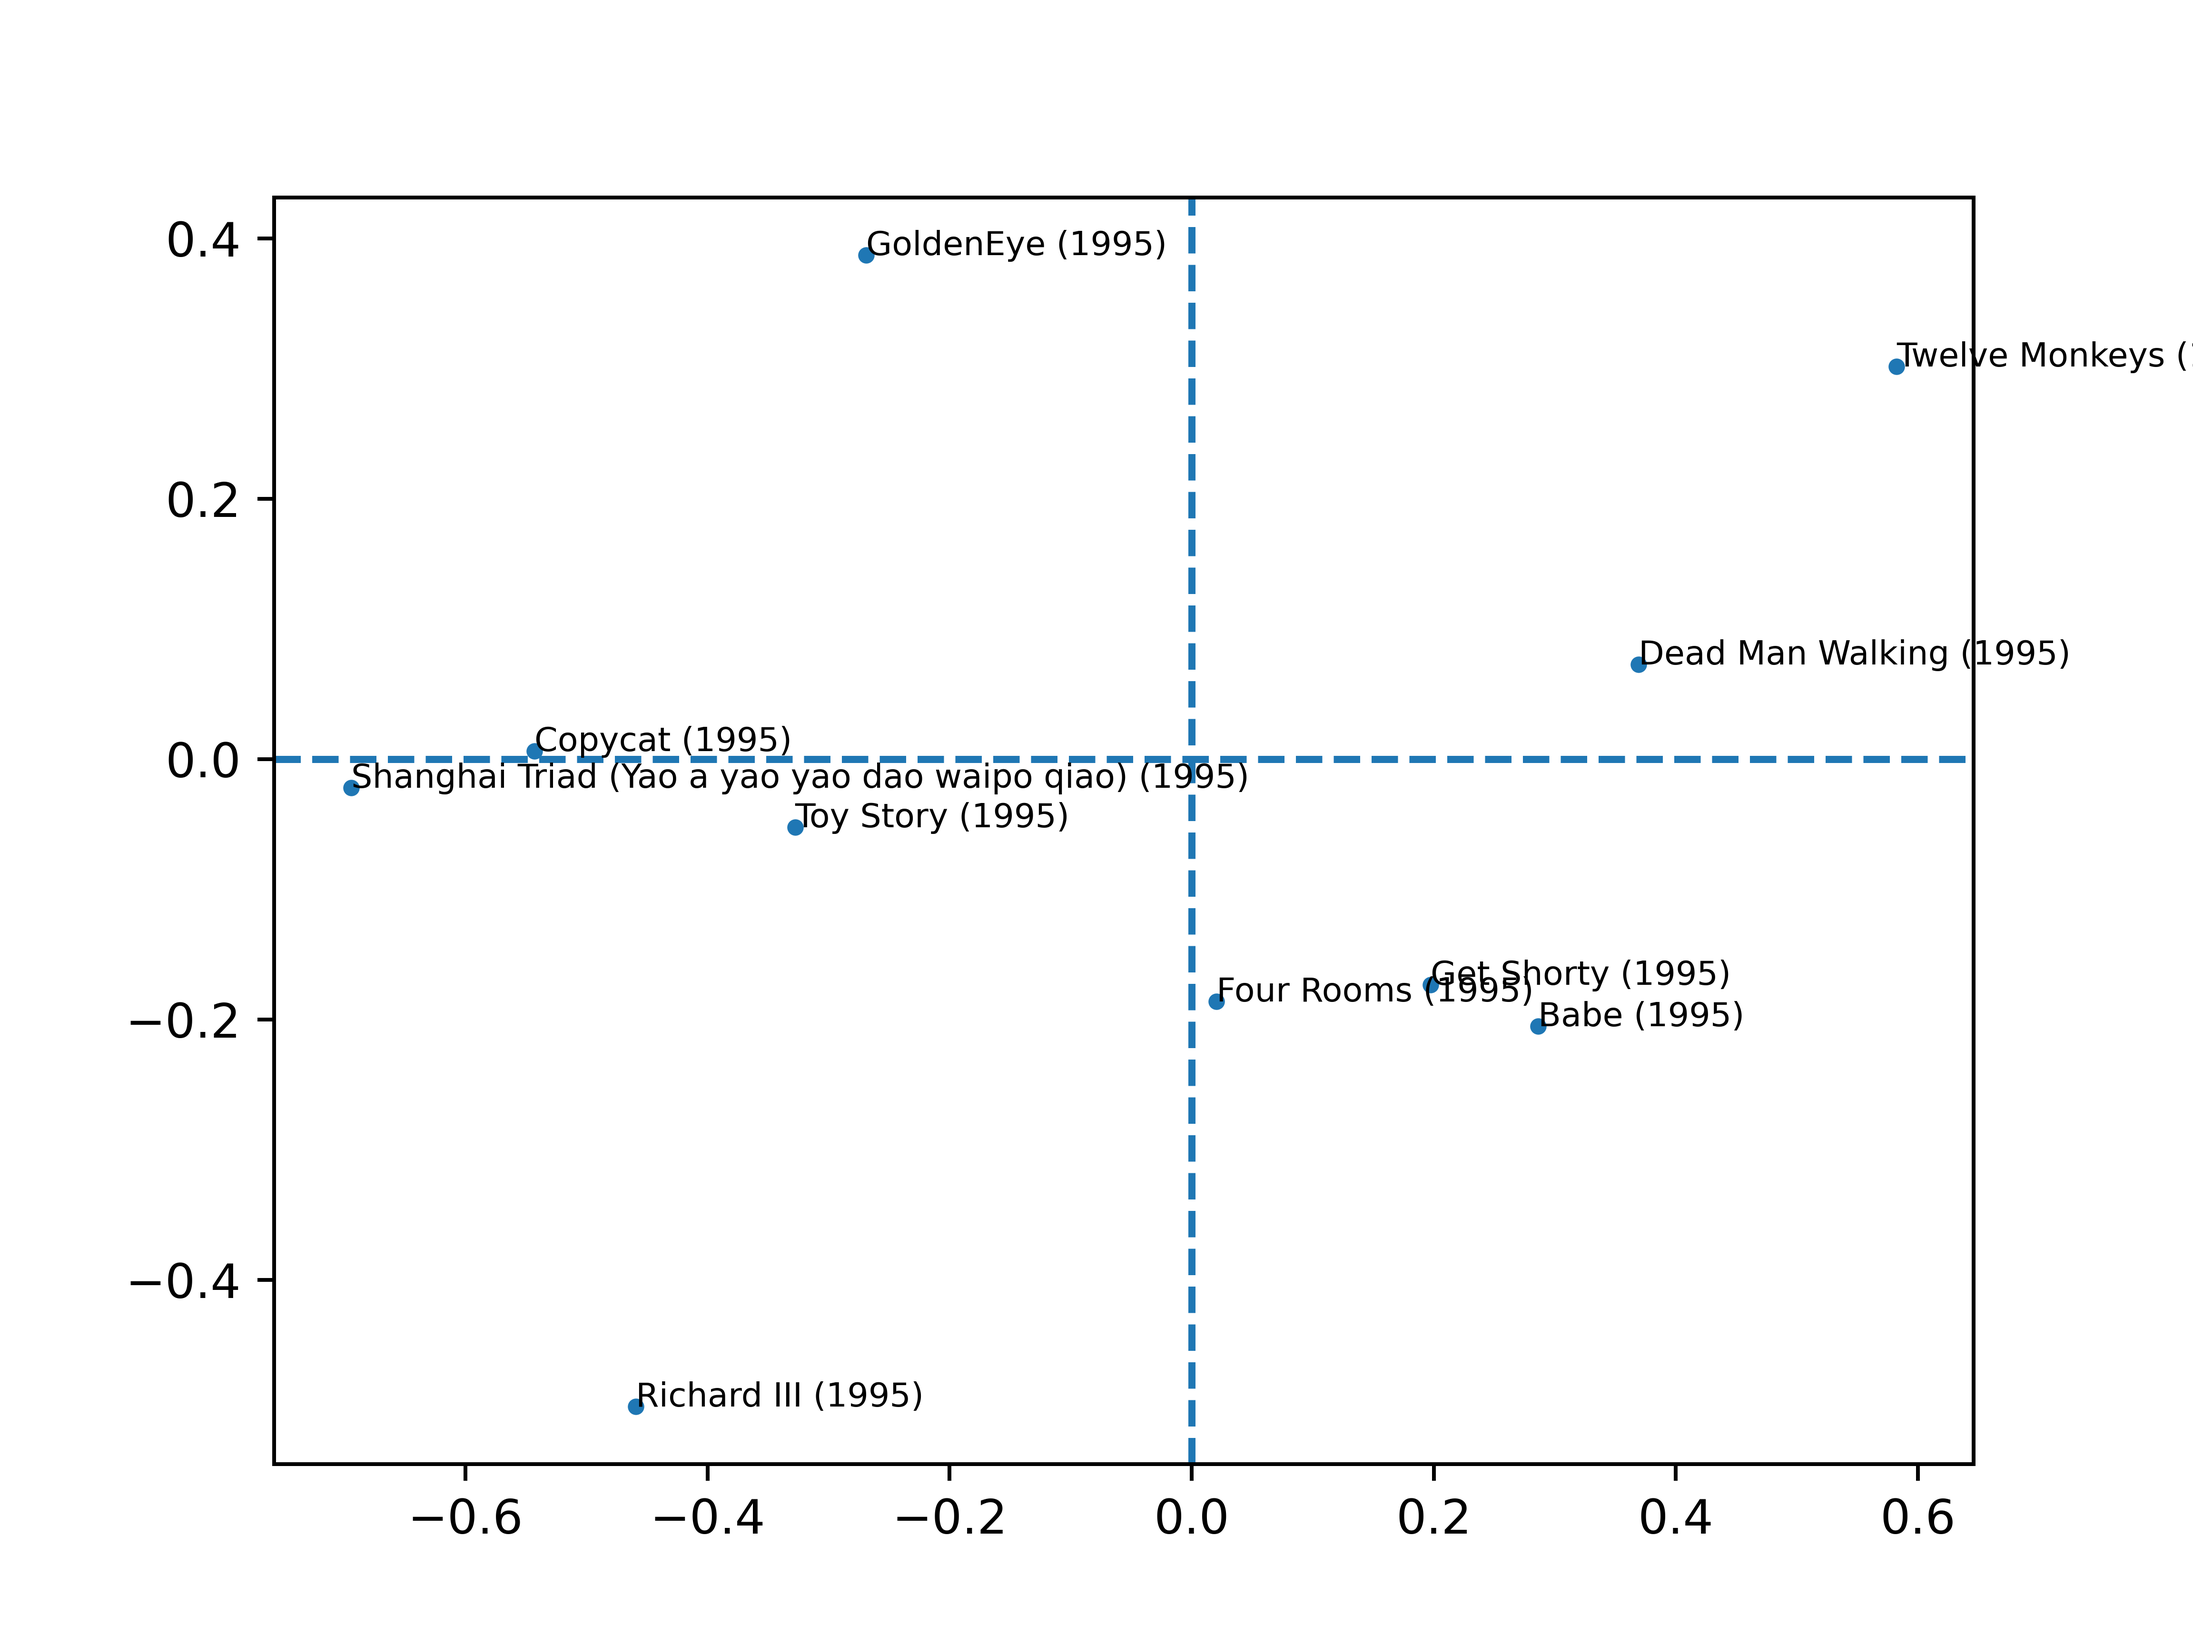
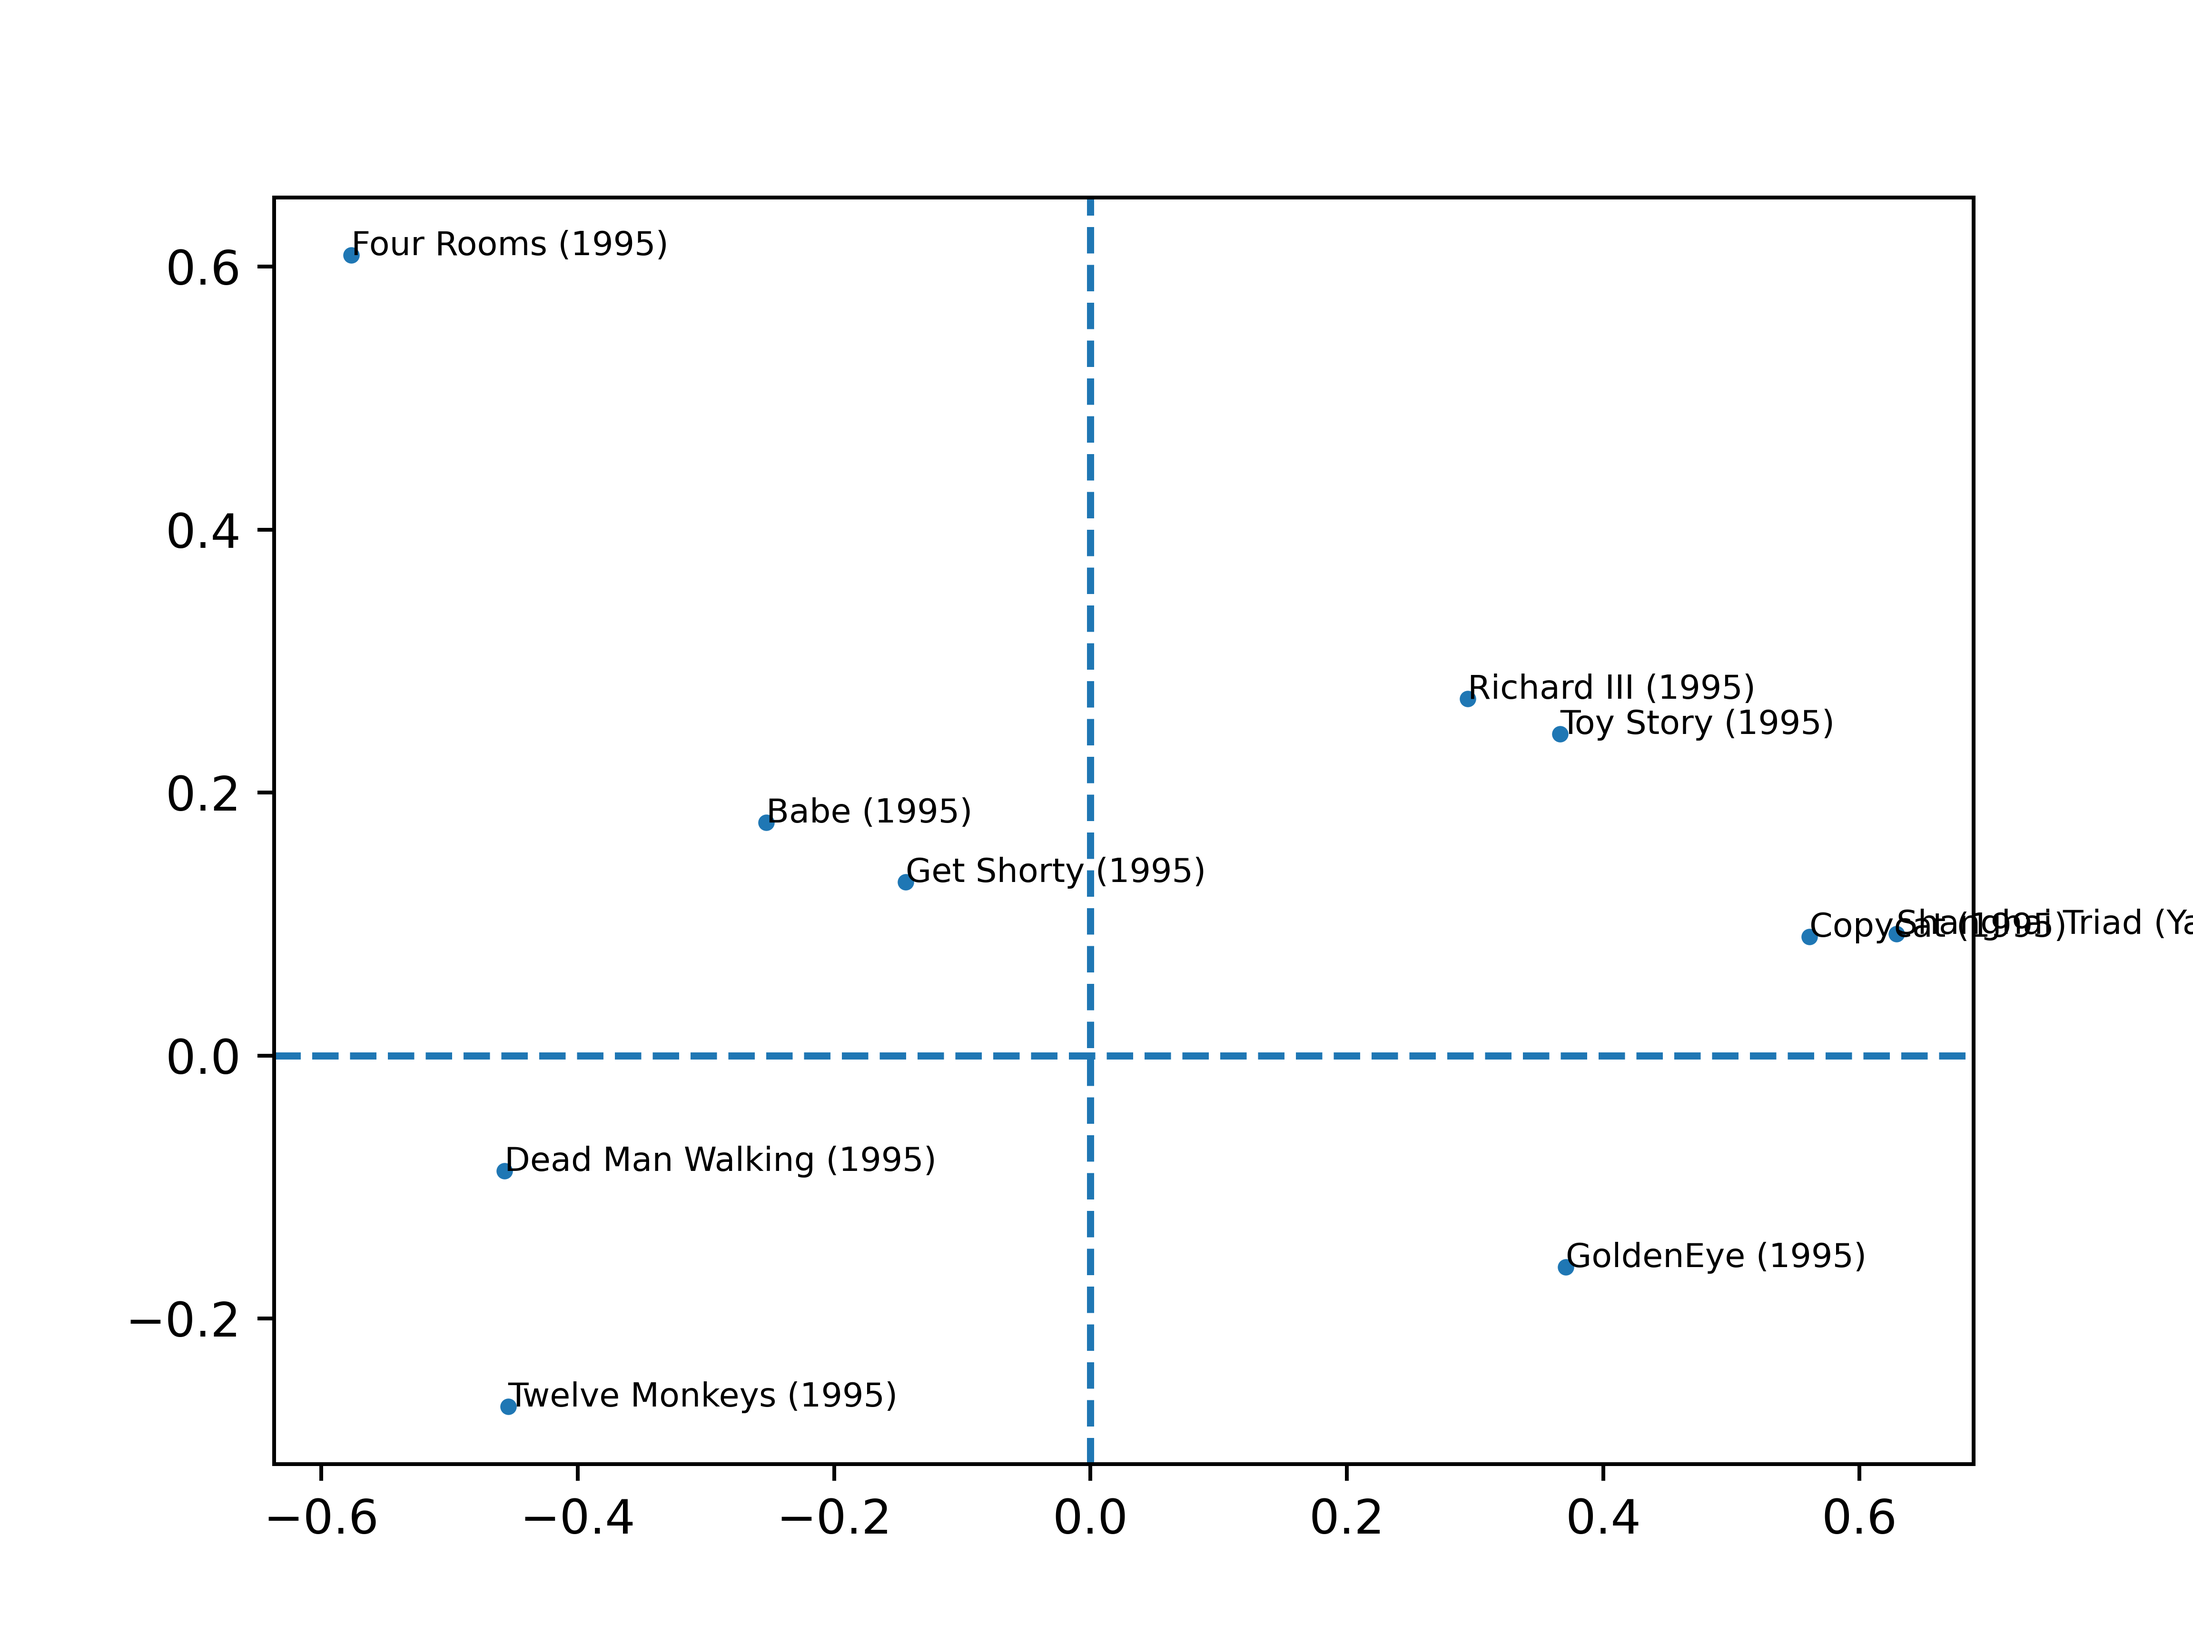
More visualization changes on task 4.

diff --git a/task4.py b/task4.py
@@ -6,9 +6,13 @@ import matplotlib.pyplot as plt
 
 # Load the movies csv, which is used in multiple places below. This is read-only!
 MOVIES = pd.read_csv('movies.csv')
+print(len(MOVIES['Movie ID']))
+scores = {}
+for iid in MOVIES['Movie ID']:
+    scores.update({iid: })
 
 # Define a reader for Surprise
-reader = Reader(rating_scale=(1, 5))
+reader = Reader()
 
 # Read the csv files
 train_df = pd.read_csv('data.csv')
@@ -19,15 +23,15 @@ print(train_df.describe())
 train_set = Dataset.load_from_df(train_df, reader).build_full_trainset()
 
 # Initialize and train SVD algorithm
-algo = SVD()
+algo = SVD(lr_all=0.03, reg_all=0.1)
 algo.fit(train_set)
 
 # Validate the model using mean error - sanity check
-errors = []
-print(test_df)
-for _, (uid, iid, rating) in test_df.iterrows():
-    errors.append(algo.predict(uid, iid).est - rating)
-print(f"error: {sum(errors) / len(test_df.index)}")
+# errors = []
+# print(test_df)
+# for _, (uid, iid, rating) in test_df.iterrows():
+#     errors.append(algo.predict(uid, iid).est - rating)
+# print(f"error: {sum(errors) / len(test_df.index)}")
 
 # Check factorization results
 U = algo.pu
@@ -35,24 +39,16 @@ print(f"U shape: {U.shape}")
 V = algo.qi
 print(f"V shape: {V.shape}")
 
-# Make sure that V's columns match the movies in movies.csv
-# Since some movies were not in train_df
-zero_cnt = 0
-for iid in MOVIES['Movie ID']:
-    # for some reason unique has to be added here...
-    if iid not in train_df['Movie ID'].unique():
-        V = np.insert(V, iid, values=0, axis=0)
-        zero_cnt += 1
-print(f"inserted zero rows: {zero_cnt}")
 V = V.T # maintain consistency with project description
-print(f"V shape after zeroes: {V.shape}")
+print(f"V shape (new): {V.shape}")
 
 # perform SVD on the movie (V) matrix
 A, S, B = np.linalg.svd(V)
-A_thin = A.T[0:2]
+print(A.shape)
+A_thin = (A[:, :2]).T
 print(f"A thin shape: {A_thin.shape}")
-print((A_thin @ V).shape)     # check that the dimensions is correct
-V_tilde = (A_thin @ V)        # project V onto the two most important dimensions
+print(f"project shape: {(A_thin @ V).shape}")     # check that the dimensions is correct
+V_tilde = np.matmul(A_thin, V)        # project V onto the two most important dimensions
 
 # props to task 1 and 2!
 popular_iid = [50, 258, 100, 181, 294, 286, 288, 1, 300, 121]
@@ -60,8 +56,7 @@ best_iid = [814, 1599, 1201, 1122, 1653, 1293, 1500, 1189, 1536, 1467]
 
 def produce_plot(iids: list, name: str):
     for iid in iids:
-        x = V_tilde[0][iid - 1]
-        y = V_tilde[1][iid - 1]
+        x, y = V_tilde[:, iid-1]
         plt.annotate(f"{MOVIES['Movie Title'][iid-1]}", (x, y), fontsize=7)
         plt.scatter(x, y, c="tab:blue", s=6)
     plt.axvline(x=0, linestyle='--')
@@ -83,9 +78,13 @@ def first_movies_of_genre(genre: str, lim: int = 10):
         if row[genre] == 1:
             iids.append(row['Movie ID'])
     counts = train_df['Movie ID'].value_counts()
-    return sorted(iids, key=lambda id: counts.get(id), reverse=True)[:lim]
+    iids.sort(key=lambda id: counts.get(id), reverse=True)
+    return iids
 
 # three genres: comedy, action, and documentary
 genres = ['Action', 'Comedy', 'Documentary']
 for genre in genres:
     produce_plot(first_movies_of_genre(genre), genre.lower())
+
+
+produce_plot([82, 143, 161, 231, 257, 272, 288, 403, 318, 1065], 'chosen')
